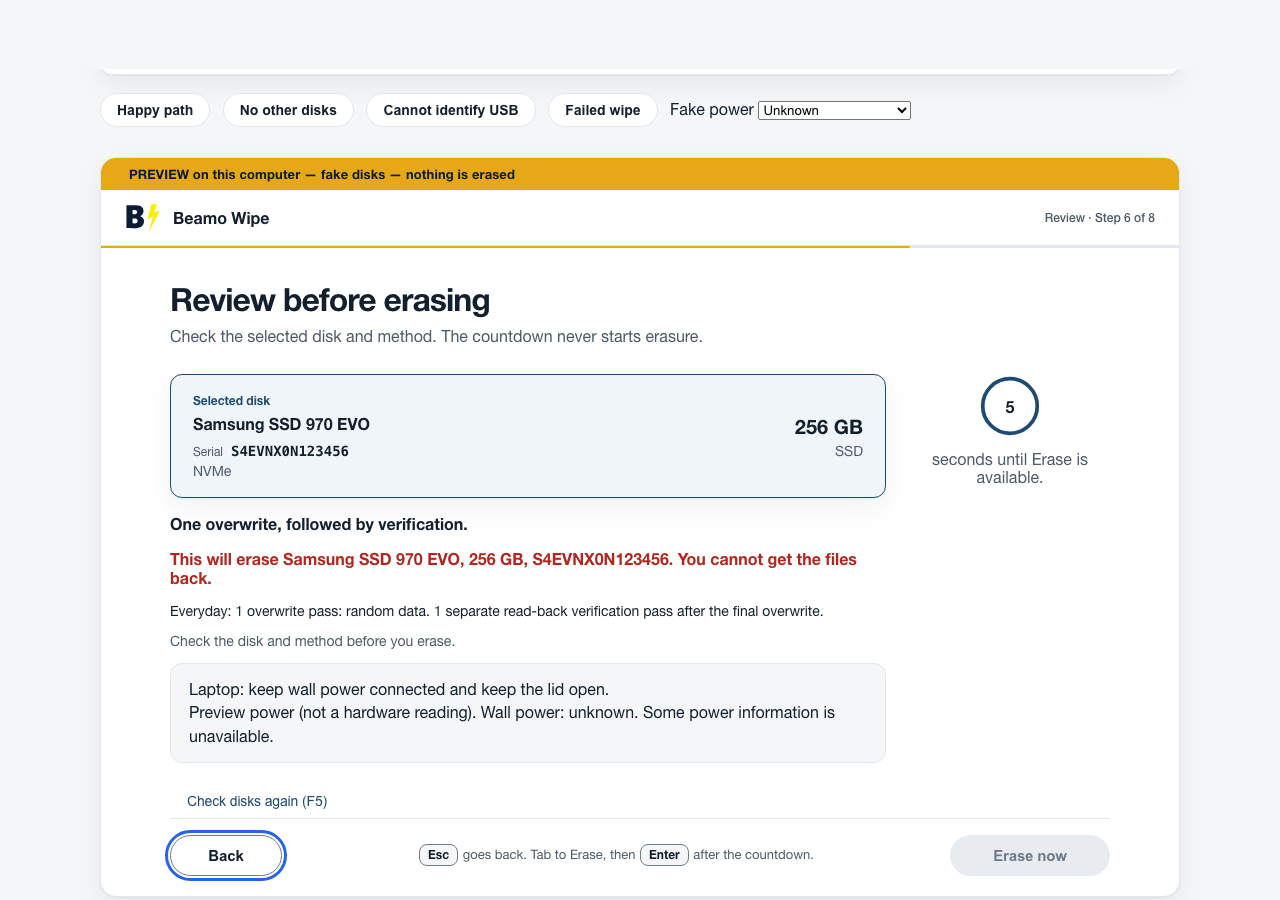
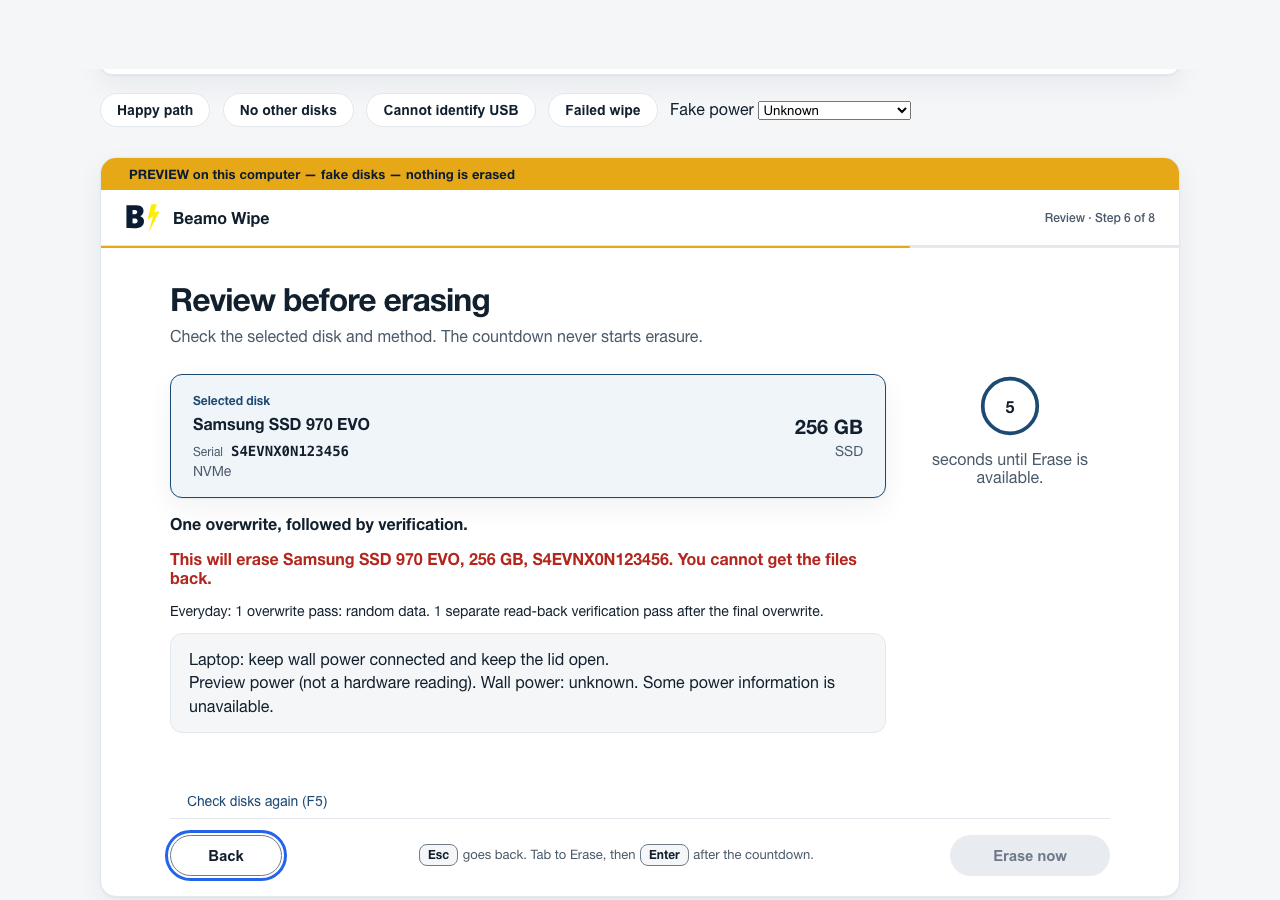
feat: drop repeated last-check copy and quiet remaining walls
Last chance no longer repeats the check line under the identity card.
Method storage limits sit in a compact note. The intro keeps one power
panel. Keyboard limits are shorter, and the check field matches confirm.

Fake disks only.

Changed region(s): [[0.125, 0.6844, 0.6562, 0.84]]

diff --git a/src/beamo_wipe/gallery.py b/src/beamo_wipe/gallery.py
@@ -820,7 +820,7 @@ function draw() {
       <p class="small muted">${P.keyboardLimits}</p>
       <div class="cz"><div class="czc">${layouts}
       <p class="small">${P.keyboardCheck}</p>
-      <input id="kbcheck" type="text" autocomplete="off" spellcheck="false" placeholder="${P.keyboardHint}" value="">
+      <div class="entryshell"><input class="token" id="kbcheck" type="text" autocomplete="off" spellcheck="false" value=""></div>
       </div></div>`;
     main.querySelectorAll("[data-layout]").forEach(el => {
       el.onclick = () => { keyboardLayout = el.dataset.layout; owner = false; token = ""; selected = null; draw(); };
@@ -834,8 +834,8 @@ function draw() {
     main.innerHTML = `<h1 class="sub">${P.titles.what}</h1><p class="subtitle">${P.whatLead}</p><div class="cz"><div class="czc">
       <ul class="bullets">${P.what.map(x=>"<li>"+x+"</li>").join("")}</ul>
       <div class="panel info" style="margin-top:12px">${badge("info", 28)}<div>
-      <div>${P.powerReminder}</div><div class="extra">${P.powerBlanking}</div></div></div>
-      ${powerPanel(false)}
+      <div>${P.powerReminder}</div><div class="extra">${P.powerBlanking}</div>
+      <div id="power-status" role="status" aria-live="polite">${powerText()}</div></div></div>
       ${moreLink()}
       ${showMore ? `<div class="panel info" style="margin-top:12px">${badge("info", 28)}<div>
       <div>${P.secureBoot}</div><div class="extra">${P.engine} ${P.powerEvents}</div></div></div>` : ""}</div></div>`;
@@ -932,7 +932,7 @@ function draw() {
     cont.id = "cont";
     btnsR.append(cont);
   } else if (screen === "method") {
-    let html = `<h1 class="compact sub">${P.titles.method}</h1><p class="subtitle" style="margin-bottom:6px">${P.methodLead}</p>${selected ? summaryCard(selected) + moreLink() : ""}<p id="storage-notice" role="note">${selected ? selected.storageNotice : P.ssd}</p><button id="limits" class="linkbtn" aria-describedby="storage-notice">${P.limitsButton}</button><div class="cz"><div class="czc">`;
+    let html = `<h1 class="compact sub">${P.titles.method}</h1><p class="subtitle" style="margin-bottom:6px">${P.methodLead}</p>${selected ? summaryCard(selected) + moreLink() : ""}<div id="storage-notice" role="note">${panel("info", selected ? selected.storageNotice : P.ssd, true)}</div><button id="limits" class="linkbtn" aria-describedby="storage-notice">${P.limitsButton}</button><div class="cz"><div class="czc">`;
     ["everyday","extra","quick_zero"].forEach(id => {
       const m = P.methods[id];
       const sel = method === id;
@@ -1006,7 +1006,7 @@ function draw() {
     const frac = ready ? 1 : Math.max(0, Math.min(1, tLeft / 5));
     const ringColor = "var(--primary)";
     main.innerHTML = `<h1 class="sub">${P.titles.last}</h1><p class="subtitle">${P.lastLead}</p>
-      <div class="review-grid"><div>${summaryCard(selected)}<p style="font-weight:700">${esc(P.methods[method].operation)}</p><p class="review-warning">${esc(selected.eraseLabel)}</p><p class="small">${P.methods[method].summary}</p><p class="small muted">${P.reviewCheck}</p>${powerPanel()}</div><div class="ringwrap"><div style="position:relative;width:64px;height:64px">
+      <div class="review-grid"><div>${summaryCard(selected)}<p style="font-weight:700">${esc(P.methods[method].operation)}</p><p class="review-warning">${esc(selected.eraseLabel)}</p><p class="small">${P.methods[method].summary}</p>${powerPanel()}</div><div class="ringwrap"><div style="position:relative;width:64px;height:64px">
         <svg width="64" height="64" viewBox="0 0 190 190">
           <circle cx="95" cy="95" r="81" fill="none" stroke="var(--track)" stroke-width="11"/>
           ${ready ? `<circle cx="95" cy="95" r="81" fill="none" stroke="var(--primary)" stroke-width="11"/>` :

diff --git a/src/beamo_wipe/ui/tk_wizard.py b/src/beamo_wipe/ui/tk_wizard.py
@@ -1915,12 +1915,12 @@ class TkWizard:
             return
         self.w.set_typing_check(self._typing_var.get())
 
-    def _power_notice(self, parent, *, reminder=True) -> None:
+    def _power_notice(self, parent, *, reminder=True, bg: str = BG, indent: int = 0) -> None:
         if reminder:
-            self._wrapping_label(parent, C.POWER_KEEP, font=self.font_s_bold, bg=BG)
-        label = self._p(parent, self.w.power_text, font=self.font_s, bg=BG)
+            self._wrapping_label(parent, C.POWER_KEEP, font=self.font_s_bold, bg=bg)
+        label = self._p(parent, self.w.power_text, font=self.font_s, bg=bg)
         label.configure(width=1)
-        label.pack(fill=tk.X)
+        label.pack(fill=tk.X, padx=(indent, 0), pady=(4 if indent else 0, 0))
         label.bind("<Configure>", lambda event: label.configure(wraplength=max(1, event.width - 4)))
         self._power_label = label
 
@@ -1943,10 +1943,11 @@ class TkWizard:
                 line, text=bullet, font=self.font_lead, fg=INK, bg=SURFACE,
                 wraplength=max(200, self.lay.wrap - 80), justify=tk.LEFT, anchor="w",
             ).pack(side=tk.LEFT, fill=tk.X, expand=True, padx=(14, 0))
-        self._panel(
+        power = self._panel(
             zone, kind="info", text=C.POWER_REMINDER, extra=C.POWER_BLANKING
-        ).pack(fill=tk.X, pady=(12, 0))
-        self._power_notice(zone, reminder=False)
+        )
+        power.pack(fill=tk.X, pady=(12, 0))
+        self._power_notice(power.inner, reminder=False, bg=SURFACE_ALT, indent=40)
         if self._more_link(zone):
             self._panel(
                 zone, kind="info", text=C.SECURE_BOOT_HINT, extra=C.ENGINE_LINE + " " + C.POWER_EVENTS
@@ -2656,7 +2657,11 @@ class TkWizard:
         if self.w.selected:
             self._disk_summary(col, self.w.selected).pack(fill=tk.X)
             self._more_link(col)
-        self._p(col, self.w.storage_notice, font=self.font_s, fg=INK).pack(fill=tk.X)
+        notice = self.w.storage_notice
+        if notice:
+            self._panel(col, kind="info", text=notice, compact=True).pack(
+                fill=tk.X, pady=(8, 0)
+            )
         _Button(
             col, text=limits.BUTTON, command=self._nav(self.w.open_limits),
             font=self.font_s_bold, variant="ghost", compact=True,
@@ -2810,8 +2815,6 @@ class TkWizard:
         self._wrapping_label(details, self.w.erase_label(), font=self.font_bold,
                              bg=BG, fg=DANGER).pack_configure(pady=(16, 8))
         self._wrapping_label(details, self.w.method_summary, font=self.font_s, bg=BG)
-        self._wrapping_label(details, C.REVIEW_CHECK, font=self.font_s,
-                             fg=MUTED, bg=BG).pack_configure(pady=(12, 0))
         if self.w.error:
             self._panel(col, kind="danger", text=self.w.error).pack(fill=tk.X, pady=(12, 0))
         self._power_notice(details)

diff --git a/tests/test_ui_rework.py b/tests/test_ui_rework.py
@@ -39,13 +39,14 @@ def test_review_keeps_full_long_disk_identity_and_safe_default(ui):  # noqa: F81
         app.root.update()
     labels = [w for w in descendants(app.root) if w.winfo_class() == "Label"]
     for expected in (C.SELECTED_DISK, wiz.selected.display_name, wiz.selected.serial,
-                     wiz.method_summary, C.REVIEW_CHECK):
+                     wiz.method_summary, C.POWER_KEEP):
         matches = [w for w in labels if str(w.cget("text")).replace("\n", "") == expected]
         assert len(matches) == 1
         label = matches[0]
         assert label.winfo_ismapped()
         assert label.winfo_reqheight() <= label.winfo_height() + 2
         assert label.winfo_reqwidth() <= label.winfo_width() + 2
+    assert C.REVIEW_CHECK not in [str(w.cget("text")) for w in labels]
     assert not _clipping_problems(app)
     assert not _off_window_problems(app)
     focus = app.root.focus_get()
@@ -55,9 +56,9 @@ def test_review_keeps_full_long_disk_identity_and_safe_default(ui):  # noqa: F81
     assert canvas is not None
     canvas.yview_moveto(1.0)
     app.root.update()
-    review_check = next(w for w in labels if w.cget("text") == C.REVIEW_CHECK)
-    y = review_check.winfo_rooty() - canvas.winfo_rooty()
-    assert 0 <= y and y + review_check.winfo_height() <= canvas.winfo_height() + 2
+    bottom = next(w for w in labels if w.cget("text") == C.POWER_KEEP)
+    y = bottom.winfo_rooty() - canvas.winfo_rooty()
+    assert 0 <= y and y + bottom.winfo_height() <= canvas.winfo_height() + 2
     assert focus.winfo_ismapped()
     assert focus.itemcget(focus._label, "text") == C.BTN_BACK
     assert not wiz.erase_enabled

diff --git a/tests/test_ui_system.py b/tests/test_ui_system.py
@@ -304,6 +304,16 @@ def test_light_surfaces_do_not_wrap_the_logo_in_a_navy_tile():
     assert chip and "background: var(--navy)" not in chip.group(0)
 
 
+def test_last_chance_does_not_repeat_the_check_line():
+    """Would fail when Last chance printed LAST_LEAD and REVIEW_CHECK together."""
+    last = inspect.getsource(tkui.TkWizard._last)
+    assert "LAST_LEAD" in last
+    assert "REVIEW_CHECK" not in last
+    html = gallery_html()
+    assert "${P.reviewCheck}" not in html
+    assert "lastLead" in html
+
+
 def test_header_names_the_current_step_instead_of_a_full_map():
     """Would fail on the eight numbered journey circles in the header."""
     assert tkui.header_caption(4, "Step 4 of 8") == "Confirm · Step 4 of 8"

diff --git a/src/beamo_wipe/copy.py b/src/beamo_wipe/copy.py
@@ -50,9 +50,8 @@ KEYBOARD_LEAD = (
     "Then type a few characters to check."
 )
 KEYBOARD_LIMITS = (
-    "Only US QWERTY, French AZERTY, and German QWERTZ are offered. "
-    "This USB does not include other layouts. "
-    "The change lasts until this USB session restarts. "
+    "Only US QWERTY, French AZERTY, and German QWERTZ. "
+    "The change lasts until this USB restarts. "
     "It does not change firmware or BIOS keyboards."
 )
 KEYBOARD_CHECK_LABEL = "Type here to check. This is not a password and is not saved."

diff --git a/docs/evidence/modern-minimal-ui/README.md b/docs/evidence/modern-minimal-ui/README.md
@@ -10,6 +10,7 @@ warnings remain fully visible.
 - Cooler ink/muted/border palette, 12px corners, pill actions
 - Header names only the current step (`Confirm · Step 4 of 8`)
 - Confirm/method/last-check leads in plain language
+- One power panel, method limits as a quiet note, no repeated last-check line
 - Helper opens with the same three-step path as the wizard
 - WCAG 2.1 AA text and non-text contrast still pass
 
